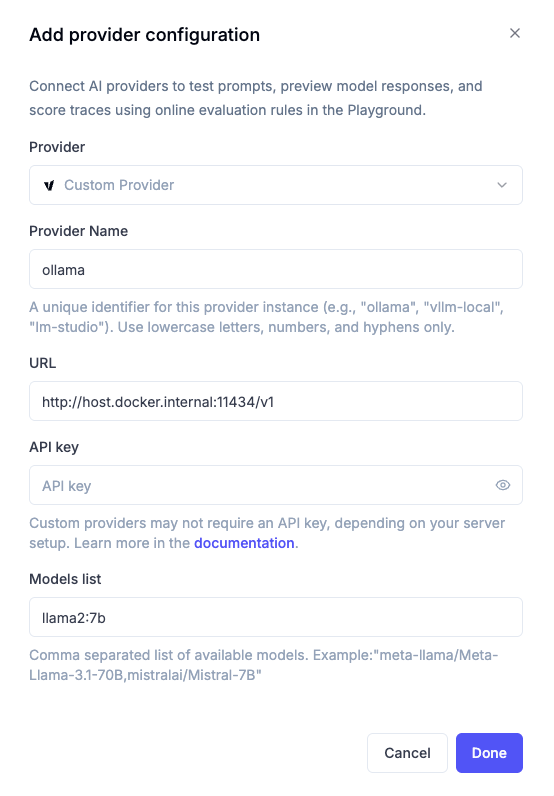
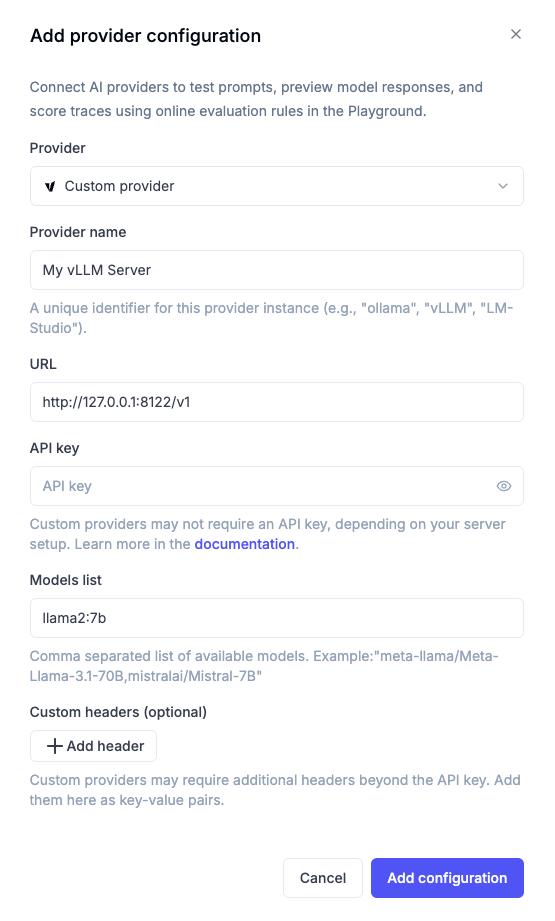
[OPIK-3069] [FE] [DOCS] Add custom headers support for custom providers in Playground (#4069)
* [OPIK-3069] [FE] Add custom headers support for custom providers in Playground

* Revision 2: Fix header deletion - send empty object to clear headers when updating provider

* Revision 3: Fix header deletion UI - remove header immediately and send empty object to backend

* [OPIK-3069] [DOCS] Add custom headers documentation for custom providers

* [OPIK-3069] [DOCS] Update vLLM configuration screenshot to show custom headers UI

* Optimised images with calibre/image-actions

* Remove test files from PR - not needed in production branch

* Revision 4: Address PR review comments - extract headers conversion helper and add validation

* Revision 5: Fix linting and formatting issues

* Remove test files from PR

* Revision 6: Address team review - fix React keys, use generic types, add duplicate validation

- Fix React key prop: Use unique IDs instead of array index to prevent re-render bugs
- Use TypeScript generic in reduce instead of type assertion for better type safety
- Add duplicate header name validation to prevent conflicting headers
- All headers now have unique IDs for stable React rendering

* Update apps/opik-frontend/src/components/pages-shared/llm/ManageAIProviderDialog/CustomProviderDetails.tsx

---------

diff --git a/apps/opik-frontend/src/components/pages-shared/llm/ManageAIProviderDialog/CustomProviderDetails.tsx b/apps/opik-frontend/src/components/pages-shared/llm/ManageAIProviderDialog/CustomProviderDetails.tsx
@@ -14,6 +14,7 @@ import { buildDocsUrl, cn } from "@/lib/utils";
 import { Input } from "@/components/ui/input";
 import { Description } from "@/components/ui/description";
 import { Button } from "@/components/ui/button";
+import { Plus, Trash2 } from "lucide-react";
 
 type CustomProviderDetailsProps = {
   form: UseFormReturn<AIProviderFormType>;
@@ -154,6 +155,124 @@ const CustomProviderDetails: React.FC<CustomProviderDetailsProps> = ({
                 Comma separated list of available models. Example:
                 {`"meta-llama/Meta-Llama-3.1-70B,mistralai/Mistral-7B"`}
               </Description>
+            </FormItem>
+          );
+        }}
+      />
+
+      <FormField
+        control={form.control}
+        name="headers"
+        render={({ field, formState }) => {
+          const headers = field.value || [];
+
+          const addHeader = () => {
+            field.onChange([
+              ...headers,
+              { key: "", value: "", id: crypto.randomUUID() },
+            ]);
+          };
+
+          const removeHeader = (id: string) => {
+            const newHeaders = headers.filter((h) => h.id !== id);
+            // Always set to array (even if empty) so backend can clear headers
+            field.onChange(newHeaders);
+          };
+
+          const updateHeader = (id: string, key: string, value: string) => {
+            const newHeaders = headers.map((h) =>
+              h.id === id ? { ...h, key, value } : h,
+            );
+            field.onChange(newHeaders);
+          };
+
+          // Get validation errors for individual headers
+          const getHeaderError = (index: number, field: "key" | "value") => {
+            return get(formState.errors, ["headers", index, field]);
+          };
+
+          return (
+            <FormItem>
+              <Label>Custom headers (optional)</Label>
+              <div className="flex flex-col gap-2">
+                {headers.map((header, index) => {
+                  const keyError = getHeaderError(index, "key");
+                  const valueError = getHeaderError(index, "value");
+
+                  return (
+                    <div key={header.id} className="flex flex-col gap-1">
+                      <div className="flex gap-2">
+                        <div className="flex-1">
+                          <Input
+                            placeholder="Header name"
+                            value={header.key}
+                            onChange={(e) =>
+                              updateHeader(
+                                header.id,
+                                e.target.value,
+                                header.value,
+                              )
+                            }
+                            className={cn("w-full", {
+                              "border-destructive": Boolean(keyError),
+                            })}
+                          />
+                          {keyError && (
+                            <p className="mt-1 text-xs text-destructive">
+                              {keyError.message as string}
+                            </p>
+                          )}
+                        </div>
+                        <div className="flex-1">
+                          <Input
+                            placeholder="Header value"
+                            value={header.value}
+                            onChange={(e) =>
+                              updateHeader(
+                                header.id,
+                                header.key,
+                                e.target.value,
+                              )
+                            }
+                            className={cn("w-full", {
+                              "border-destructive": Boolean(valueError),
+                            })}
+                          />
+                          {valueError && (
+                            <p className="mt-1 text-xs text-destructive">
+                              {valueError.message as string}
+                            </p>
+                          )}
+                        </div>
+                        <Button
+                          type="button"
+                          variant="ghost"
+                          size="icon"
+                          onClick={() => removeHeader(header.id)}
+                          className="shrink-0"
+                        >
+                          <Trash2 className="comet-body-s" />
+                        </Button>
+                      </div>
+                    </div>
+                  );
+                })}
+                <Button
+                  type="button"
+                  variant="outline"
+                  size="sm"
+                  onClick={addHeader}
+                  className="w-fit"
+                >
+                  <Plus className="mr-1.5 size-3.5" />
+                  Add header
+                </Button>
+              </div>
+              <Description>
+                Custom providers may require additional headers beyond the API
+                key. Add them here as key-value pairs.
+              </Description>
+              <FormMessage />
             </FormItem>
           );
         }}

diff --git a/apps/opik-frontend/src/components/pages-shared/llm/ManageAIProviderDialog/ManageAIProviderDialog.tsx b/apps/opik-frontend/src/components/pages-shared/llm/ManageAIProviderDialog/ManageAIProviderDialog.tsx
@@ -50,6 +50,45 @@ import {
   buildComposedProviderKey,
 } from "@/lib/provider";
 
+/**
+ * Converts header array from form state to API-compatible object format
+ * @param headersArray - Array of header key-value pairs from form
+ * @param isEditing - Whether editing an existing custom provider
+ * @returns Headers object, empty object to clear, or undefined
+ *
+ * Three cases handled:
+ * 1. Non-empty array → Convert to object, filtering empty keys
+ * 2. Empty array when editing → Return {} to clear headers from backend
+ * 3. Empty array when creating → Return undefined (don't send headers field)
+ */
+function convertHeadersForAPI(
+  headersArray: Array<{ key: string; value: string }> | undefined,
+  isEditing: boolean,
+): Record<string, string> | undefined {
+  if (headersArray === undefined) {
+    return undefined;
+  }
+
+  // Case 1: Convert non-empty array to object, filtering empty keys
+  if (headersArray.length > 0) {
+    return headersArray.reduce<Record<string, string>>((acc, header) => {
+      const trimmedKey = header.key.trim();
+      if (trimmedKey) {
+        acc[trimmedKey] = header.value;
+      }
+      return acc;
+    }, {});
+  }
+
+  // Case 2: Empty array when editing = clear headers from backend
+  if (isEditing) {
+    return {};
+  }
+
+  // Case 3: Empty array when creating = don't send headers field
+  return undefined;
+}
+
 type ManageAIProviderDialogProps = {
   providerKey?: ProviderObject;
   open: boolean;
@@ -96,6 +135,14 @@ const ManageAIProviderDialog: React.FC<ManageAIProviderDialogProps> = ({
         providerKey?.configuration?.models ?? "",
         providerKey?.provider_name,
       ),
+      headers:
+        providerKey?.headers && Object.keys(providerKey.headers).length > 0
+          ? Object.entries(providerKey.headers).map(([key, value]) => ({
+              key,
+              value,
+              id: crypto.randomUUID(),
+            }))
+          : [],
     } as AIProviderFormType,
   });
 
@@ -122,6 +169,7 @@ const ManageAIProviderDialog: React.FC<ManageAIProviderDialogProps> = ({
     const url = form.getValues("url");
     const location = form.getValues("location");
     const providerName = form.getValues("providerName");
+    const headersArray = form.getValues("headers");
     const composedProviderType = buildComposedProviderKey(
       provider!,
       providerName,
@@ -142,6 +190,10 @@ const ManageAIProviderDialog: React.FC<ManageAIProviderDialogProps> = ({
           }
         : undefined;
 
+    const isEditingCustomProvider =
+      isCustom && !!(providerKey || calculatedProviderKey);
+    const headers = convertHeadersForAPI(headersArray, isEditingCustomProvider);
+
     if (providerKey || calculatedProviderKey) {
       updateMutate({
         providerKey: {
@@ -149,6 +201,7 @@ const ManageAIProviderDialog: React.FC<ManageAIProviderDialogProps> = ({
           apiKey,
           base_url: isCustom ? url : undefined,
           ...(configuration && { configuration }),
+          ...(isCustom && headers !== undefined && { headers }),
         },
       });
     } else if (provider) {
@@ -163,6 +216,7 @@ const ManageAIProviderDialog: React.FC<ManageAIProviderDialogProps> = ({
           base_url: isCustom ? url : undefined,
           provider_name: isCustom ? providerName : undefined,
           ...(configuration && { configuration }),
+          ...(isCustom && headers !== undefined && { headers }),
         },
       });
     }
@@ -279,6 +333,19 @@ const ManageAIProviderDialog: React.FC<ManageAIProviderDialogProps> = ({
                             form.setValue(
                               "location",
                               providerData?.configuration?.location ?? "",
+                            );
+                            form.setValue(
+                              "headers",
+                              providerData?.headers &&
+                                Object.keys(providerData.headers).length > 0
+                                ? Object.entries(providerData.headers).map(
+                                    ([key, value]) => ({
+                                      key,
+                                      value,
+                                      id: crypto.randomUUID(),
+                                    }),
+                                  )
+                                : [],
                             );
 
                             form.setValue(

diff --git a/apps/opik-frontend/src/components/pages-shared/llm/ManageAIProviderDialog/schema.ts b/apps/opik-frontend/src/components/pages-shared/llm/ManageAIProviderDialog/schema.ts
@@ -57,8 +57,57 @@ export const createCustomProviderDetailsFormSchema = (
           },
           { message: "All model names should be unique" },
         ),
+      headers: z
+        .array(
+          z.object({
+            key: z.string(),
+            value: z.string(),
+            id: z.string(),
+          }),
+        )
+        .optional(),
     })
     .superRefine((data, ctx) => {
+      // Validate headers: if a header has any content, both key and value must be non-empty
+      if (data.headers) {
+        const headerKeys: string[] = [];
+
+        data.headers.forEach((header, index) => {
+          const hasKey = header.key.trim().length > 0;
+          const hasValue = header.value.trim().length > 0;
+
+          // If either field has content, both must have content
+          if ((hasKey || hasValue) && !hasKey) {
+            ctx.addIssue({
+              code: z.ZodIssueCode.custom,
+              message: "Header key is required",
+              path: ["headers", index, "key"],
+            });
+          }
+
+          if ((hasKey || hasValue) && !hasValue) {
+            ctx.addIssue({
+              code: z.ZodIssueCode.custom,
+              message: "Header value is required",
+              path: ["headers", index, "value"],
+            });
+          }
+
+          // Check for duplicate header keys
+          if (hasKey) {
+            const trimmedKey = header.key.trim();
+            if (headerKeys.includes(trimmedKey)) {
+              ctx.addIssue({
+                code: z.ZodIssueCode.custom,
+                message: "Header key must be unique",
+                path: ["headers", index, "key"],
+              });
+            } else {
+              headerKeys.push(trimmedKey);
+            }
+          }
+        });
+      }
       if (!data.id && (!data.providerName || data.providerName.length === 0)) {
         ctx.addIssue({
           code: z.ZodIssueCode.custom,

diff --git a/apps/opik-frontend/src/types/providers.ts b/apps/opik-frontend/src/types/providers.ts
@@ -432,6 +432,7 @@ export interface BaseProviderKey {
   provider: PROVIDER_TYPE;
   ui_composed_provider: COMPOSED_PROVIDER_TYPE;
   configuration: ProviderKeyConfiguration;
+  headers?: Record<string, string>;
 }
 
 export interface StandardProviderObject extends BaseProviderKey {
@@ -456,6 +457,7 @@ export type PartialProviderKeyUpdate = Partial<
   apiKey?: string;
   base_url?: string;
   provider_name?: string;
+  headers?: Record<string, string>;
 };
 
 export type ReasoningEffort = "minimal" | "low" | "medium" | "high";

diff --git a/apps/opik-frontend/src/api/provider-keys/useProviderKeysCreateMutation.ts b/apps/opik-frontend/src/api/provider-keys/useProviderKeysCreateMutation.ts
@@ -30,6 +30,7 @@ const useProviderKeysCreateMutation = () => {
         ...(providerKey?.configuration && {
           configuration: providerKey.configuration,
         }),
+        ...(providerKey?.headers && { headers: providerKey.headers }),
       });
 
       return data;

diff --git a/apps/opik-frontend/src/api/provider-keys/useProviderKeysUpdateMutation.ts b/apps/opik-frontend/src/api/provider-keys/useProviderKeysUpdateMutation.ts
@@ -27,6 +27,7 @@ const useProviderKeysUpdateMutation = () => {
           ...(providerKey?.configuration && {
             configuration: providerKey.configuration,
           }),
+          ...(providerKey?.headers && { headers: providerKey.headers }),
         },
       );
       return data;